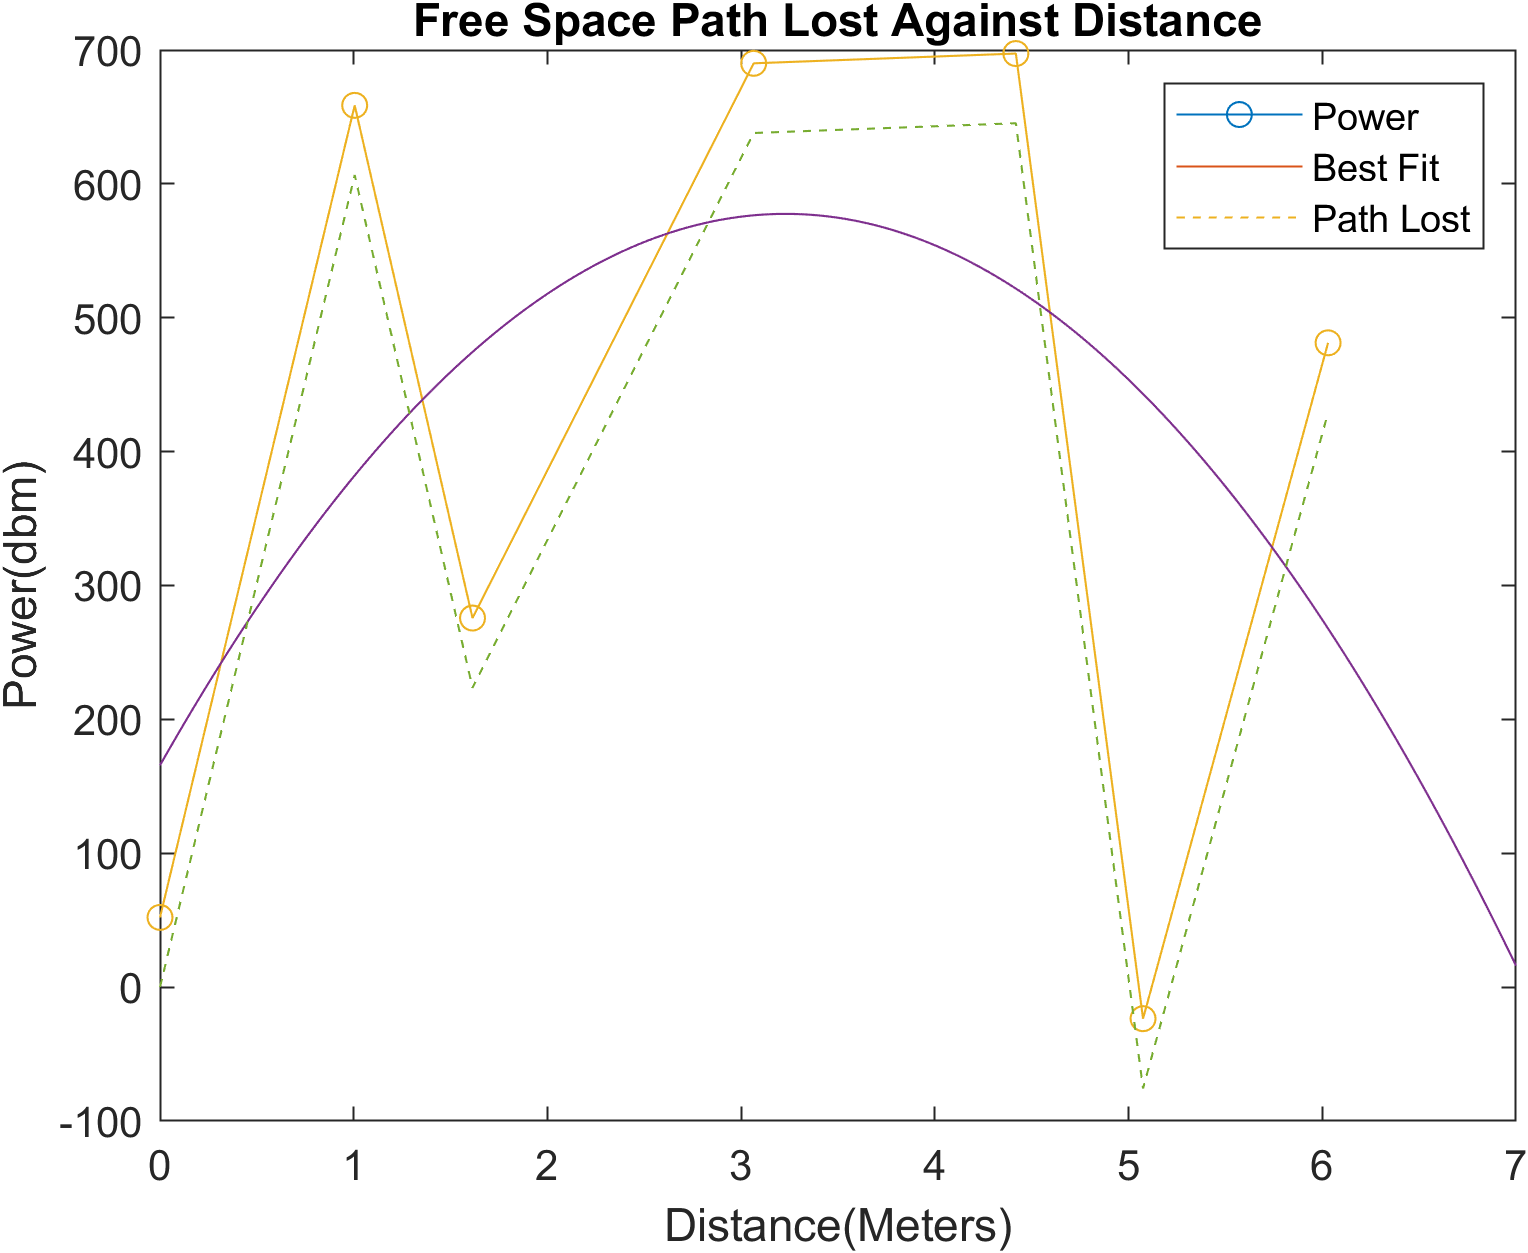
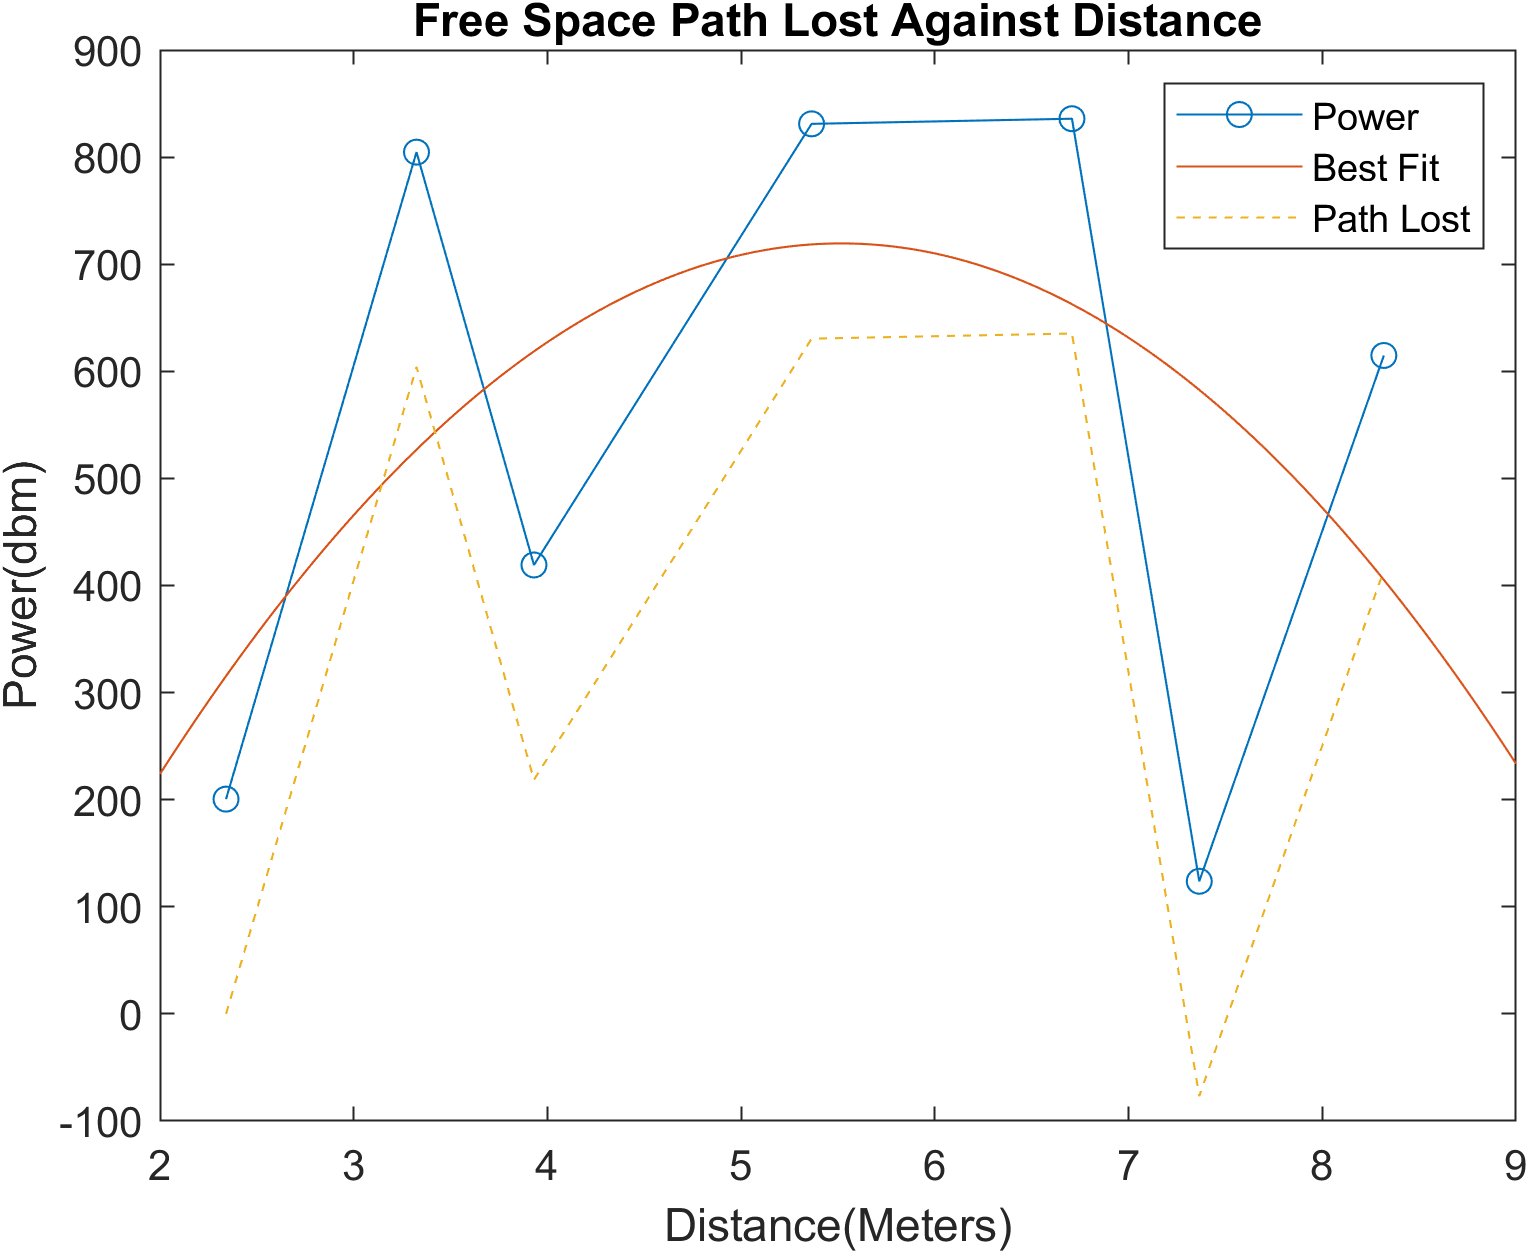
Data analysis Tool version 1

diff --git a/data_collection/Plot.m b/data_collection/Plot.m
@@ -1,28 +1,34 @@
 %init variables
 rssi=double.empty(7,0);
 snr=double.empty(7,0);
-distance=double.empty(7,0);
+dist=double.empty(7,0);
 n_list=double.empty(1,0);
+packet_rssi=double.empty(7,0);
+
 
 %plot operations
 files = dir('..\data\data_*.dat');
 for i=1:length(files)
     current_file = load(strcat(files(i).folder,'\',files(i).name), '-ascii')
-    longitude=current_file(:,1);
-    latitude=current_file(:,2);
-    initialx = longitude(1)
-    initialy = latitude(1)
-    distance = [distance,sqrt((longitude - initialx(1)).^2 + (latitude - initialy(1)).^2)]
-    rssi=[rssi,current_file(:,3)];
-    snr=[snr,current_file(:,4)];
+    longitude=current_file(:,3);
+    latitude=current_file(:,4);
+    initialx = current_file(:,1);
+    initialy = current_file(:,2);
+    dist = [dist,distance(initialx,initialy,latitude,longitude)]
+    rssi=[rssi,current_file(:,5)];
+    packet_rssi = [packet_rssi,current_file(:,6)];
+    snr=[snr,current_file(:,7)];
 end
+packet_rssi_avg= mean(packet_rssi,2)
 rssi_avg= mean(rssi,2)
 snr_avg= mean(snr,2)
-hf_constant = -157
-lf_constant = -164
-rssi_dbm = hf_constant + rssi_avg
-distance_avg = mean(distance,2)
-packet_strength= rssi_dbm + snr_avg * 0.25
+distance_avg = mean(dist,2)
+if snr_avg < 0
+    packet_strength= packet_rssi_avg + snr_avg * 0.25
+else 
+    packet_strength= rssi_avg
+end
+
 
 avg_power = packet_strength
 xdata = distance_avg(:)
